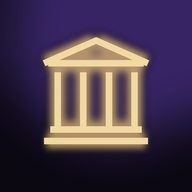
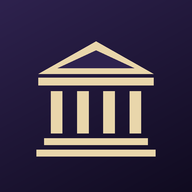
Visual claro premium, ícone nítido e convênios fora do iGUT pelo WhatsApp
Claude-Session: https://claude.ai/code/session_01AuLYGDJTyibB4G3xkukqv5

diff --git a/index.html b/index.html
@@ -5,172 +5,175 @@
 <meta name="viewport" content="width=device-width, initial-scale=1, viewport-fit=cover">
 <title>Pantheon Paciente</title>
 <meta name="claude:viewport-fit-sides" content="cover">
-<meta name="theme-color" content="#0B0812">
-<meta name="apple-mobile-web-app-status-bar-style" content="black-translucent">
+<meta name="theme-color" content="#F4F3F8">
+<meta name="apple-mobile-web-app-status-bar-style" content="default">
 <meta name="apple-mobile-web-app-capable" content="yes">
 <meta name="apple-mobile-web-app-title" content="Pantheon">
 <link rel="manifest" href="manifest.json">
-<link rel="apple-touch-icon" href="icon-192.png">
+<link rel="apple-touch-icon" sizes="180x180" href="icon-180.png?v=3">
 <link rel="preconnect" href="https://fonts.googleapis.com">
 <link rel="preconnect" href="https://fonts.gstatic.com" crossorigin>
 <link rel="stylesheet" href="https://fonts.googleapis.com/css2?family=Sora:wght@500;600&family=Manrope:wght@400;500;600;700&family=JetBrains+Mono:wght@500;600&display=swap">
 <style>
-/* Layout: app escuro de coluna única (máx. 560px), cabeçalho e barra inferior em vidro fosco,
-   cartões com borda luminosa, números em fonte mono. Identidade: ônix arroxeado + ouro Pantheon + lavanda. */
+/* Layout: coluna única (máx. 560px), cabeçalho e barra inferior em vidro claro; cartões brancos com borda fina
+   e sombra em camadas; o cartão do próximo atendimento em tinta escura como peça de destaque.
+   Identidade: porcelana fria + violeta Pantheon + ouro; números em fonte mono. Visual claro único, escolhido de propósito. */
 :root {
-  --fundo: #0B0812;
-  --fundo-2: #120D1C;
-  --superficie: rgba(255,255,255,.035);
-  --superficie-forte: #181224;
-  --vidro: rgba(16,11,26,.72);
-  --linha: rgba(255,255,255,.08);
-  --linha-forte: rgba(255,255,255,.16);
-  --texto: #F3EEF9;
-  --texto-2: #A69CB6;
-  --texto-3: #6F6580;
-  --ouro: #D6B26E;
-  --ouro-2: #F1D9A4;
-  --acento: #A98BF2;
-  --acento-suave: rgba(169,139,242,.12);
-  --brilho: rgba(169,139,242,.35);
-  --ok: #6FE0A6; --ok-suave: rgba(111,224,166,.12);
-  --alerta: #F2C46B; --alerta-suave: rgba(242,196,107,.12);
-  --erro: #FF8A8A; --erro-suave: rgba(255,138,138,.12);
-  --neutro-suave: rgba(255,255,255,.06);
+  --fundo: #F4F3F8;
+  --superficie: #FFFFFF;
+  --superficie-2: #FAF9FD;
+  --vidro: rgba(255,255,255,.78);
+  --linha: #E5E2EE;
+  --linha-forte: #D5D0E2;
+  --texto: #14101C;
+  --texto-2: #5D5570;
+  --texto-3: #958DA6;
+  --tinta: #17112A;
+  --acento: #5A3ED0;
+  --acento-2: #8A6CF2;
+  --acento-suave: #EFEBFD;
+  --ouro: #A6803A;
+  --ouro-claro: #E9D6AB;
+  --ok: #17845A; --ok-suave: #E3F5EC;
+  --alerta: #9A6B0E; --alerta-suave: #FBF1DC;
+  --erro: #C0392F; --erro-suave: #FCE9E7;
+  --neutro-suave: #EFEDF4;
+  --sombra: 0 1px 2px rgba(23,17,42,.04), 0 4px 14px rgba(23,17,42,.05);
+  --sombra-alta: 0 2px 4px rgba(23,17,42,.04), 0 18px 40px -12px rgba(48,30,110,.22);
   --f-display: "Sora", "Segoe UI", system-ui, sans-serif;
   --f-corpo: "Manrope", "Segoe UI", system-ui, -apple-system, sans-serif;
   --f-mono: "JetBrains Mono", ui-monospace, "SF Mono", Menlo, monospace;
   --raio: 18px;
-  color-scheme: dark;
+  color-scheme: light;
 }
 
 * { box-sizing: border-box }
 html, body { height: 100% }
 body {
-  background: var(--fundo); color: var(--texto); font-family: var(--f-corpo); font-size: 15px; line-height: 1.5;
-  -webkit-font-smoothing: antialiased;
+  background: var(--fundo); color: var(--texto); font-family: var(--f-corpo); font-size: 15px; line-height: 1.5; -webkit-font-smoothing: antialiased;
   background-image:
-    radial-gradient(900px 520px at 85% -10%, rgba(169,139,242,.16), transparent 60%),
-    radial-gradient(700px 480px at -10% 30%, rgba(214,178,110,.08), transparent 60%);
+    radial-gradient(800px 420px at 100% -8%, rgba(138,108,242,.13), transparent 62%),
+    radial-gradient(640px 380px at -12% 22%, rgba(214,178,110,.12), transparent 60%);
   background-attachment: fixed;
 }
 body::before { content: ""; position: fixed; inset: 0 0 auto; height: env(safe-area-inset-top, 0px); z-index: 10; background: var(--fundo) }
 button, input, textarea, select { font: inherit; color: inherit }
 button { cursor: pointer; -webkit-tap-highlight-color: transparent }
+a { -webkit-tap-highlight-color: transparent }
 :focus-visible { outline: 2px solid var(--acento); outline-offset: 2px }
-h1, h2, h3 { font-family: var(--f-display); font-weight: 600; margin: 0; text-wrap: balance; letter-spacing: -.02em }
+h1, h2, h3 { font-family: var(--f-display); font-weight: 600; margin: 0; text-wrap: balance; letter-spacing: -.025em }
 p { margin: 0 }
 .miudo { font-size: 13px; color: var(--texto-2) }
-.rotulo { font-family: var(--f-mono); font-size: 11px; letter-spacing: .14em; text-transform: uppercase; color: var(--ouro); font-weight: 500 }
+.rotulo { font-family: var(--f-mono); font-size: 11px; letter-spacing: .14em; text-transform: uppercase; color: var(--ouro); font-weight: 600 }
 
 /* Capa / login */
 .capa { min-height: 100%; display: flex; flex-direction: column; position: relative; overflow: hidden;
-  padding-left: max(16px, env(safe-area-inset-left, 0px)); padding-right: max(16px, env(safe-area-inset-right, 0px)); padding-block: 48px 32px;
+  padding-left: max(16px, env(safe-area-inset-left, 0px)); padding-right: max(16px, env(safe-area-inset-right, 0px)); padding-block: 52px 32px;
   background:
-    linear-gradient(rgba(255,255,255,.035) 1px, transparent 1px) 0 0 / 32px 32px,
-    linear-gradient(90deg, rgba(255,255,255,.035) 1px, transparent 1px) 0 0 / 32px 32px,
-    radial-gradient(600px 400px at 50% 0%, rgba(169,139,242,.28), transparent 70%),
+    radial-gradient(520px 360px at 15% 0%, rgba(138,108,242,.22), transparent 70%),
+    radial-gradient(480px 340px at 95% 18%, rgba(214,178,110,.22), transparent 70%),
     var(--fundo); }
-.capa::after { content: ""; position: absolute; inset: auto 0 0; height: 40%; background: linear-gradient(transparent, var(--fundo)); pointer-events: none }
-.capa > * { position: relative; z-index: 1 }
-.capa-topo { max-width: 440px; width: 100%; margin: 0 auto; display: grid; gap: 14px; justify-items: center; text-align: center; padding-block: 8px 30px }
-.capa-topo h1 { font-size: 32px; background: linear-gradient(180deg, #fff, #CFC3E6); -webkit-background-clip: text; background-clip: text; color: transparent }
+.capa-topo { max-width: 440px; width: 100%; margin: 0 auto; display: grid; gap: 14px; justify-items: center; text-align: center; padding-block: 6px 30px }
+.capa-topo h1 { font-size: 32px; color: var(--tinta) }
 .capa-topo p { color: var(--texto-2); max-width: 30ch }
-.marca { width: 56px; height: 56px; color: var(--ouro); filter: drop-shadow(0 0 14px rgba(214,178,110,.45)) }
-.cartao-login { max-width: 440px; width: 100%; margin: 0 auto; background: var(--vidro); backdrop-filter: blur(18px); -webkit-backdrop-filter: blur(18px);
-  border: 1px solid var(--linha-forte); border-radius: 24px; padding: 22px 20px 24px; display: grid; gap: 16px;
-  box-shadow: 0 30px 80px rgba(0,0,0,.55), inset 0 1px 0 rgba(255,255,255,.06) }
-.segmento { display: grid; grid-template-columns: 1fr 1fr; background: rgba(255,255,255,.04); border: 1px solid var(--linha); border-radius: 14px; padding: 4px; gap: 4px }
+.marca { width: 56px; height: 56px; color: var(--ouro) }
+.capa-topo .marca { width: 68px; height: 68px; padding: 14px; border-radius: 20px; color: var(--ouro-claro);
+  background: linear-gradient(150deg, #2B2048, #120C22); box-shadow: 0 14px 30px -10px rgba(48,30,110,.55), inset 0 1px 0 rgba(255,255,255,.12) }
+.cartao-login { max-width: 440px; width: 100%; margin: 0 auto; background: var(--vidro); backdrop-filter: blur(16px); -webkit-backdrop-filter: blur(16px);
+  border: 1px solid rgba(255,255,255,.9); border-radius: 24px; padding: 22px 20px 24px; display: grid; gap: 16px; box-shadow: var(--sombra-alta) }
+.segmento { display: grid; grid-template-columns: 1fr 1fr; background: var(--neutro-suave); border-radius: 14px; padding: 4px; gap: 4px }
 .segmento button { border: 0; background: transparent; padding: 9px 8px; border-radius: 10px; font-weight: 600; color: var(--texto-2) }
-.segmento button[aria-pressed="true"] { background: rgba(169,139,242,.18); color: var(--texto); box-shadow: inset 0 0 0 1px rgba(169,139,242,.45) }
+.segmento button[aria-pressed="true"] { background: var(--superficie); color: var(--texto); box-shadow: 0 1px 3px rgba(23,17,42,.12) }
 .capa-rodape { text-align: center; color: var(--texto-3); font-size: 12.5px; margin-top: 22px }
 
 /* Formulários */
 form { display: grid; gap: 14px }
 .campo { display: grid; gap: 6px }
 .campo label { font-weight: 600; font-size: 13px; color: var(--texto-2) }
-.campo input, .campo textarea { width: 100%; border: 1px solid var(--linha-forte); background: rgba(255,255,255,.04); border-radius: 12px; padding: 13px 14px; font-size: 16px; transition: border-color .15s, box-shadow .15s }
+.campo input, .campo textarea { width: 100%; border: 1px solid var(--linha-forte); background: var(--superficie); border-radius: 12px; padding: 13px 14px; font-size: 16px; transition: border-color .15s, box-shadow .15s }
 .campo input::placeholder, .campo textarea::placeholder { color: var(--texto-3) }
-.campo input:focus, .campo textarea:focus { border-color: var(--acento); outline: none; box-shadow: 0 0 0 4px rgba(169,139,242,.15) }
+.campo input:focus, .campo textarea:focus { border-color: var(--acento); outline: none; box-shadow: 0 0 0 4px rgba(90,62,208,.12) }
 .check { display: flex; gap: 10px; align-items: flex-start; font-size: 13px; color: var(--texto-2) }
 .check input { margin-top: 3px; width: 18px; height: 18px; accent-color: var(--acento); flex: none }
-.erro-msg { background: var(--erro-suave); color: var(--erro); border: 1px solid rgba(255,138,138,.25); border-radius: 12px; padding: 10px 12px; font-size: 14px }
-.info-msg { background: var(--acento-suave); color: var(--texto); border: 1px solid rgba(169,139,242,.25); border-radius: 12px; padding: 10px 12px; font-size: 14px }
+.erro-msg { background: var(--erro-suave); color: var(--erro); border: 1px solid rgba(192,57,47,.18); border-radius: 12px; padding: 10px 12px; font-size: 14px }
+.info-msg { background: var(--acento-suave); color: var(--tinta); border: 1px solid rgba(90,62,208,.16); border-radius: 12px; padding: 10px 12px; font-size: 14px }
 
 .btn { border: 0; border-radius: 14px; padding: 14px 18px; font-weight: 700; font-size: 15px; display: inline-flex; align-items: center; justify-content: center; gap: 8px; text-decoration: none; transition: transform .12s, filter .15s, box-shadow .15s }
 .btn:active { transform: scale(.98) }
-.btn-primario { background: linear-gradient(135deg, #B79CF7 0%, #8C6BE6 55%, #7553D6 100%); color: #120A20; box-shadow: 0 10px 30px -8px var(--brilho), inset 0 1px 0 rgba(255,255,255,.35) }
-.btn-primario:hover { filter: brightness(1.07) }
-.btn-secundario { background: var(--acento-suave); color: var(--acento); box-shadow: inset 0 0 0 1px rgba(169,139,242,.3) }
-.btn-linha { background: rgba(255,255,255,.03); border: 1px solid var(--linha-forte); color: var(--texto) }
-.btn-perigo { background: linear-gradient(135deg, #FF9A9A, #E06464); color: #2A0A0A }
+.btn-primario { background: linear-gradient(135deg, #2C2050 0%, #4A33B0 60%, #6A4EE0 100%); color: #fff; box-shadow: 0 12px 26px -10px rgba(74,51,176,.6), inset 0 1px 0 rgba(255,255,255,.18) }
+.btn-primario:hover { filter: brightness(1.08) }
+.btn-secundario { background: var(--acento-suave); color: var(--acento) }
+.btn-linha { background: var(--superficie); border: 1px solid var(--linha-forte); color: var(--texto) }
+.btn-perigo { background: var(--erro); color: #fff }
 .btn-texto { background: none; border: 0; color: var(--acento); font-weight: 600; padding: 6px 0; display: inline-flex; align-items: center; gap: 4px }
 .btn[disabled] { opacity: .5; cursor: default; box-shadow: none }
 .btn-bloco { width: 100% }
 
 /* App */
-.topo { position: sticky; top: env(safe-area-inset-top, 0px); z-index: 5; background: var(--vidro); backdrop-filter: blur(18px) saturate(1.4); -webkit-backdrop-filter: blur(18px) saturate(1.4);
+.topo { position: sticky; top: env(safe-area-inset-top, 0px); z-index: 5; background: var(--vidro); backdrop-filter: blur(16px) saturate(1.6); -webkit-backdrop-filter: blur(16px) saturate(1.6);
   border-bottom: 1px solid var(--linha);
   padding-left: max(16px, env(safe-area-inset-left, 0px)); padding-right: max(16px, env(safe-area-inset-right, 0px)); padding-block: 12px }
 .topo-in { max-width: 560px; margin: 0 auto; display: flex; align-items: center; gap: 10px }
-.topo-in .marca { width: 26px; height: 26px }
-.topo-in strong { font-family: var(--f-display); font-weight: 600; font-size: 17px; letter-spacing: .12em; text-transform: uppercase; flex: 1 }
-.topo-in button { background: rgba(255,255,255,.05); border: 1px solid var(--linha); color: var(--texto-2); border-radius: 999px; padding: 6px 14px; font-size: 13px; font-weight: 600 }
+.topo-in .marca { width: 30px; height: 30px; padding: 6px; border-radius: 9px; color: var(--ouro-claro); background: linear-gradient(150deg, #2B2048, #120C22) }
+.topo-in strong { font-family: var(--f-display); font-weight: 600; font-size: 15px; letter-spacing: .2em; text-transform: uppercase; flex: 1; color: var(--tinta) }
+.topo-in button { background: var(--superficie); border: 1px solid var(--linha); color: var(--texto-2); border-radius: 999px; padding: 6px 14px; font-size: 13px; font-weight: 600 }
 .demo-faixa { background: var(--alerta-suave); color: var(--alerta); font-size: 12px; text-align: center; padding: 6px 16px; font-weight: 600; font-family: var(--f-mono); letter-spacing: .04em }
-main { max-width: 560px; margin: 0 auto; padding-left: max(16px, env(safe-area-inset-left, 0px)); padding-right: max(16px, env(safe-area-inset-right, 0px)); padding-block: 22px calc(104px + env(safe-area-inset-bottom, 0px)); display: grid; gap: 18px }
+main { max-width: 560px; margin: 0 auto; padding-left: max(16px, env(safe-area-inset-left, 0px)); padding-right: max(16px, env(safe-area-inset-right, 0px)); padding-block: 22px calc(108px + env(safe-area-inset-bottom, 0px)); display: grid; gap: 18px }
 .saudacao { display: grid; gap: 4px }
-.saudacao h1 { font-size: 28px }
-.cartao { background: var(--superficie); border: 1px solid var(--linha); border-radius: var(--raio); padding: 16px; display: grid; gap: 12px; min-width: 0; box-shadow: inset 0 1px 0 rgba(255,255,255,.04) }
-.destaque { position: relative; overflow: hidden; border: 1px solid transparent;
-  background:
-    radial-gradient(420px 220px at 100% 0%, rgba(169,139,242,.32), transparent 70%),
-    linear-gradient(160deg, #1E1530, #120C1D) padding-box,
-    linear-gradient(135deg, rgba(214,178,110,.7), rgba(169,139,242,.5) 50%, rgba(255,255,255,.06)) border-box;
-  box-shadow: 0 24px 60px -20px rgba(120,80,220,.45) }
-.destaque h2 { font-size: 22px }
-.destaque .btn-linha { background: rgba(255,255,255,.06) }
+.saudacao h1 { font-size: 28px; color: var(--tinta) }
+.cartao { background: var(--superficie); border: 1px solid var(--linha); border-radius: var(--raio); padding: 16px; display: grid; gap: 12px; min-width: 0; box-shadow: var(--sombra) }
+.destaque { position: relative; overflow: hidden; color: #F4F0FB; border: 0;
+  background: radial-gradient(380px 220px at 105% -10%, rgba(138,108,242,.55), transparent 70%), radial-gradient(260px 200px at -10% 120%, rgba(214,178,110,.28), transparent 70%), linear-gradient(155deg, #251B42, #120C22);
+  box-shadow: 0 22px 44px -18px rgba(40,24,100,.6) }
+.destaque .rotulo { color: var(--ouro-claro) }
+.destaque .miudo { color: #BDB3D3 }
+.destaque h2 { font-size: 22px; color: #fff }
+.destaque .btn-linha { background: rgba(255,255,255,.08); border-color: rgba(255,255,255,.18); color: #fff }
 .data-grande { display: flex; gap: 14px; align-items: center }
-.data-bloco { flex: none; width: 62px; border-radius: 14px; background: rgba(0,0,0,.25); text-align: center; padding: 8px 0 7px; border: 1px solid rgba(214,178,110,.45); box-shadow: 0 0 20px -6px rgba(214,178,110,.5) }
-.data-bloco b { display: block; font-family: var(--f-mono); font-weight: 600; font-size: 24px; line-height: 1.1; color: var(--ouro-2) }
-.data-bloco span { font-family: var(--f-mono); font-size: 10.5px; letter-spacing: .14em; text-transform: uppercase; color: var(--texto-2) }
+.data-bloco { flex: none; width: 62px; border-radius: 14px; background: rgba(255,255,255,.07); text-align: center; padding: 8px 0 7px; border: 1px solid rgba(233,214,171,.45) }
+.data-bloco b { display: block; font-family: var(--f-mono); font-weight: 600; font-size: 24px; line-height: 1.1; color: var(--ouro-claro) }
+.data-bloco span { font-family: var(--f-mono); font-size: 10.5px; letter-spacing: .14em; text-transform: uppercase; color: #BDB3D3 }
 .acoes { display: grid; grid-template-columns: 1fr 1fr; gap: 10px }
-.acao { background: var(--superficie); border: 1px solid var(--linha); border-radius: var(--raio); padding: 15px; text-align: left; display: grid; gap: 10px; align-content: start; color: var(--texto); text-decoration: none; min-height: 112px; transition: border-color .15s, background .15s, transform .12s }
-.acao svg { width: 34px; height: 34px; padding: 7px; border-radius: 10px; color: var(--acento); background: var(--acento-suave); box-shadow: inset 0 0 0 1px rgba(169,139,242,.25) }
+.acao { background: var(--superficie); border: 1px solid var(--linha); border-radius: var(--raio); padding: 15px; text-align: left; display: grid; gap: 10px; align-content: start; color: var(--texto); text-decoration: none; min-height: 112px; box-shadow: var(--sombra); transition: border-color .15s, transform .12s, box-shadow .15s }
+.acao svg { width: 36px; height: 36px; padding: 8px; border-radius: 11px; color: var(--acento); background: var(--acento-suave) }
 .acao b { font-size: 14.5px; font-family: var(--f-display); font-weight: 600; letter-spacing: -.01em }
 .acao span { font-size: 12.5px; color: var(--texto-2) }
-.acao:hover { border-color: rgba(169,139,242,.45); background: rgba(169,139,242,.06) }
+.acao:hover { border-color: rgba(90,62,208,.35); box-shadow: var(--sombra-alta) }
 .acao:active { transform: scale(.985) }
 .linha-botoes { display: flex; gap: 8px; flex-wrap: wrap }
 .linha-botoes .btn { flex: 1 1 130px }
 
 /* Etapas de agendamento */
 .etapas { display: flex; gap: 6px }
-.etapas i { flex: 1; height: 3px; border-radius: 3px; background: var(--linha-forte) }
-.etapas i.feita { background: linear-gradient(90deg, var(--ouro), var(--acento)); box-shadow: 0 0 10px rgba(169,139,242,.5) }
+.etapas i { flex: 1; height: 3px; border-radius: 3px; background: var(--linha) }
+.etapas i.feita { background: linear-gradient(90deg, var(--ouro), var(--acento)) }
 .cab-etapa { display: grid; gap: 6px }
-.cab-etapa h2 { font-size: 24px }
+.cab-etapa h2 { font-size: 24px; color: var(--tinta) }
 .lista-op { display: grid; gap: 8px }
-.op { width: 100%; text-align: left; background: var(--superficie); border: 1px solid var(--linha); border-radius: 14px; padding: 13px 14px; display: flex; gap: 12px; align-items: center; transition: border-color .15s, background .15s }
-.op:hover { border-color: rgba(169,139,242,.45) }
-.op[aria-pressed="true"] { border-color: var(--acento); background: var(--acento-suave); box-shadow: 0 0 0 3px rgba(169,139,242,.12) }
+.op { width: 100%; text-align: left; background: var(--superficie); border: 1px solid var(--linha); border-radius: 14px; padding: 13px 14px; display: flex; gap: 12px; align-items: center; color: var(--texto); text-decoration: none; box-shadow: var(--sombra); transition: border-color .15s, box-shadow .15s }
+.op:hover { border-color: rgba(90,62,208,.35) }
+.op[aria-pressed="true"] { border-color: var(--acento); box-shadow: 0 0 0 3px rgba(90,62,208,.12) }
 .op .txt { flex: 1; min-width: 0; display: grid; gap: 1px }
 .op .txt b { font-weight: 600 }
 .op .txt span { font-size: 13px; color: var(--texto-2) }
-.op .seta { color: var(--texto-3) }
-.avatar { flex: none; width: 40px; height: 40px; border-radius: 12px; display: grid; place-items: center; font-weight: 700; font-size: 13.5px; font-family: var(--f-mono);
-  color: var(--ouro-2); background: linear-gradient(145deg, rgba(214,178,110,.18), rgba(169,139,242,.14)); box-shadow: inset 0 0 0 1px rgba(214,178,110,.3) }
-.dias { overflow-x: auto; display: flex; gap: 8px; padding: 2px 2px 8px; scroll-snap-type: x proximity; -webkit-overflow-scrolling: touch; scrollbar-width: none }
+.op .seta { color: var(--texto-3); display: grid }
+.op-whats { background: var(--superficie-2); border-style: dashed }
+.op-whats .txt span { color: var(--ok) }
+.op-whats .seta { color: var(--ok) }
+.avatar { flex: none; width: 40px; height: 40px; border-radius: 12px; display: grid; place-items: center; font-weight: 600; font-size: 13px; font-family: var(--f-mono); color: var(--ouro-claro); background: linear-gradient(150deg, #2B2048, #120C22) }
+.dias { overflow-x: auto; display: flex; gap: 8px; padding: 2px 2px 10px; scroll-snap-type: x proximity; -webkit-overflow-scrolling: touch; scrollbar-width: none }
 .dias::-webkit-scrollbar { display: none }
-.dia { flex: none; width: 64px; border: 1px solid var(--linha); background: var(--superficie); border-radius: 14px; padding: 9px 0; display: grid; justify-items: center; gap: 2px; scroll-snap-align: start; transition: border-color .15s }
+.dia { flex: none; width: 64px; border: 1px solid var(--linha); background: var(--superficie); border-radius: 14px; padding: 9px 0; display: grid; justify-items: center; gap: 2px; scroll-snap-align: start; box-shadow: var(--sombra) }
 .dia span { font-family: var(--f-mono); font-size: 10.5px; text-transform: uppercase; letter-spacing: .1em; color: var(--texto-2) }
-.dia b { font-size: 21px; font-family: var(--f-mono); font-weight: 600 }
-.dia:hover { border-color: rgba(169,139,242,.45) }
-.dia[aria-pressed="true"] { background: linear-gradient(160deg, #B79CF7, #7553D6); border-color: transparent; color: #120A20; box-shadow: 0 10px 24px -8px var(--brilho) }
-.dia[aria-pressed="true"] span { color: rgba(18,10,32,.75) }
+.dia b { font-size: 21px; font-family: var(--f-mono); font-weight: 600; color: var(--tinta) }
+.dia:hover { border-color: rgba(90,62,208,.35) }
+.dia[aria-pressed="true"] { background: linear-gradient(155deg, #2C2050, #5A3ED0); border-color: transparent; box-shadow: 0 10px 22px -8px rgba(74,51,176,.6) }
+.dia[aria-pressed="true"] span { color: rgba(255,255,255,.72) }
+.dia[aria-pressed="true"] b { color: #fff }
 .horarios { display: grid; grid-template-columns: repeat(auto-fill, minmax(80px, 1fr)); gap: 8px }
-.hora { border: 1px solid var(--linha); background: var(--superficie); border-radius: 12px; padding: 11px 0; font-weight: 600; font-family: var(--f-mono); font-variant-numeric: tabular-nums; transition: border-color .15s, background .15s }
-.hora:hover { border-color: var(--acento); background: var(--acento-suave) }
-.hora[aria-pressed="true"] { background: linear-gradient(160deg, #B79CF7, #7553D6); color: #120A20; border-color: transparent }
+.hora { border: 1px solid var(--linha); background: var(--superficie); border-radius: 12px; padding: 11px 0; font-weight: 600; font-family: var(--f-mono); font-variant-numeric: tabular-nums; color: var(--tinta); box-shadow: var(--sombra) }
+.hora:hover { border-color: var(--acento); color: var(--acento) }
+.hora[aria-pressed="true"] { background: linear-gradient(155deg, #2C2050, #5A3ED0); color: #fff; border-color: transparent }
 .resumo { display: grid; gap: 10px; margin: 0 }
 .resumo div { display: flex; justify-content: space-between; gap: 12px; border-bottom: 1px dashed var(--linha-forte); padding-bottom: 10px }
 .resumo div:last-child { border-bottom: 0; padding-bottom: 0 }
@@ -178,58 +181,57 @@ main { max-width: 560px; margin: 0 auto; padding-left: max(16px, env(safe-area-i
 .resumo dd { margin: 0; font-weight: 600; text-align: right }
 
 /* Agendamentos */
-.abas { display: grid; grid-template-columns: 1fr 1fr; background: rgba(255,255,255,.04); border: 1px solid var(--linha); border-radius: 14px; padding: 4px; gap: 4px }
+.abas { display: grid; grid-template-columns: 1fr 1fr; background: var(--neutro-suave); border-radius: 14px; padding: 4px; gap: 4px }
 .abas button { background: none; border: 0; padding: 9px; border-radius: 10px; font-weight: 600; color: var(--texto-2) }
-.abas button[aria-pressed="true"] { color: var(--texto); background: rgba(169,139,242,.18); box-shadow: inset 0 0 0 1px rgba(169,139,242,.45) }
+.abas button[aria-pressed="true"] { color: var(--texto); background: var(--superficie); box-shadow: 0 1px 3px rgba(23,17,42,.12) }
 .ag { display: grid; gap: 10px }
 .ag-cab { display: flex; justify-content: space-between; align-items: flex-start; gap: 10px }
 .ag-cab h3 { font-family: var(--f-display); font-weight: 600; font-size: 15.5px; letter-spacing: -.01em }
-.ag-quando { font-family: var(--f-mono); font-size: 13.5px; font-variant-numeric: tabular-nums; color: var(--ouro-2) }
+.ag-quando { font-family: var(--f-mono); font-size: 13.5px; font-variant-numeric: tabular-nums; color: var(--acento) }
 .pilula { flex: none; font-family: var(--f-mono); font-size: 10.5px; font-weight: 600; padding: 4px 9px; border-radius: 999px; letter-spacing: .06em; text-transform: uppercase; display: inline-flex; align-items: center; gap: 6px }
-.pilula::before { content: ""; width: 6px; height: 6px; border-radius: 50%; background: currentColor; box-shadow: 0 0 8px currentColor }
+.pilula::before { content: ""; width: 6px; height: 6px; border-radius: 50%; background: currentColor }
 .st-agendado { background: var(--acento-suave); color: var(--acento) }
 .st-confirmado { background: var(--ok-suave); color: var(--ok) }
 .st-realizado { background: var(--neutro-suave); color: var(--texto-2) }
 .st-cancelado { background: var(--erro-suave); color: var(--erro) }
 .st-faltou { background: var(--alerta-suave); color: var(--alerta) }
-.confirmar-caixa { background: var(--erro-suave); border: 1px solid rgba(255,138,138,.25); border-radius: 14px; padding: 12px; display: grid; gap: 10px }
+.confirmar-caixa { background: var(--erro-suave); border: 1px solid rgba(192,57,47,.18); border-radius: 14px; padding: 12px; display: grid; gap: 10px }
 .vazio { text-align: center; padding: 30px 16px; display: grid; gap: 12px; justify-items: center; color: var(--texto-2) }
-.vazio svg { width: 44px; height: 44px; color: var(--ouro); filter: drop-shadow(0 0 12px rgba(214,178,110,.35)) }
+.vazio svg { width: 44px; height: 44px; color: var(--ouro) }
 
 /* Preparo */
-details.prep { background: var(--superficie); border: 1px solid var(--linha); border-radius: var(--raio); padding: 0 16px }
-details.prep[open] { border-color: rgba(169,139,242,.35) }
+details.prep { background: var(--superficie); border: 1px solid var(--linha); border-radius: var(--raio); padding: 0 16px; box-shadow: var(--sombra) }
+details.prep[open] { border-color: rgba(90,62,208,.3) }
 details.prep summary { list-style: none; cursor: pointer; padding: 15px 0; display: flex; justify-content: space-between; gap: 10px; font-weight: 600; font-family: var(--f-display) }
 details.prep summary::-webkit-details-marker { display: none }
 details.prep summary::after { content: "+"; color: var(--acento); font-family: var(--f-mono); font-size: 18px; line-height: 1 }
 details.prep[open] summary::after { content: "–" }
-details.prep ul { margin: 0 0 16px; padding-left: 20px; display: grid; gap: 7px; color: var(--texto) }
+details.prep ul { margin: 0 0 16px; padding-left: 20px; display: grid; gap: 7px }
 details.prep li::marker { color: var(--ouro) }
 details.prep p { margin-bottom: 12px; color: var(--texto-2); font-size: 13.5px }
 
 /* NPS */
 .escala { display: grid; grid-template-columns: repeat(11, minmax(0, 1fr)); gap: 4px }
 .escala button { border: 1px solid var(--linha); background: var(--superficie); border-radius: 10px; padding: 10px 0; font-weight: 600; font-size: 14px; font-family: var(--f-mono); font-variant-numeric: tabular-nums }
-.escala button[aria-pressed="true"] { background: linear-gradient(160deg, #B79CF7, #7553D6); color: #120A20; border-color: transparent; box-shadow: 0 8px 20px -6px var(--brilho) }
+.escala button[aria-pressed="true"] { background: linear-gradient(155deg, #2C2050, #5A3ED0); color: #fff; border-color: transparent }
 .escala-leg { display: flex; justify-content: space-between; font-size: 12px; color: var(--texto-2) }
 @media (max-width: 380px) { .escala { grid-template-columns: repeat(6, minmax(0, 1fr)) } }
 
 /* Navegação inferior */
 .nav { position: fixed; left: 0; right: 0; bottom: 0; z-index: 6;
-  padding-left: max(12px, env(safe-area-inset-left, 0px)); padding-right: max(12px, env(safe-area-inset-right, 0px)); padding-bottom: calc(10px + env(safe-area-inset-bottom, 0px)); padding-top: 8px;
-  background: linear-gradient(transparent, rgba(11,8,18,.9) 40%) }
+  padding-left: max(12px, env(safe-area-inset-left, 0px)); padding-right: max(12px, env(safe-area-inset-right, 0px)); padding-bottom: calc(10px + env(safe-area-inset-bottom, 0px)); padding-top: 10px;
+  background: linear-gradient(rgba(244,243,248,0), rgba(244,243,248,.92) 45%) }
 .nav-in { max-width: 520px; margin: 0 auto; display: grid; grid-template-columns: repeat(4, 1fr); padding: 6px; gap: 4px;
-  background: var(--vidro); backdrop-filter: blur(18px) saturate(1.4); -webkit-backdrop-filter: blur(18px) saturate(1.4); border: 1px solid var(--linha-forte); border-radius: 22px; box-shadow: 0 16px 40px rgba(0,0,0,.5) }
-.nav button { background: none; border: 0; padding: 8px 2px; border-radius: 16px; display: grid; justify-items: center; gap: 3px; font-size: 11px; font-weight: 600; color: var(--texto-3); transition: color .15s, background .15s }
+  background: var(--vidro); backdrop-filter: blur(16px) saturate(1.6); -webkit-backdrop-filter: blur(16px) saturate(1.6); border: 1px solid rgba(255,255,255,.95); border-radius: 22px; box-shadow: var(--sombra-alta) }
+.nav button { background: none; border: 0; padding: 8px 2px; border-radius: 16px; display: grid; justify-items: center; gap: 3px; font-size: 11px; font-weight: 600; color: var(--texto-3) }
 .nav svg { width: 22px; height: 22px }
-.nav button[aria-current="page"] { color: var(--texto); background: rgba(169,139,242,.16) }
-.nav button[aria-current="page"] svg { color: var(--acento); filter: drop-shadow(0 0 6px rgba(169,139,242,.7)) }
-.toast { position: fixed; left: 50%; transform: translateX(-50%); bottom: calc(100px + env(safe-area-inset-bottom, 0px)); z-index: 8; background: rgba(28,20,42,.95); color: var(--texto); border: 1px solid rgba(169,139,242,.4); padding: 12px 16px; border-radius: 14px; font-weight: 600; font-size: 14px; max-width: calc(100% - 32px); box-shadow: 0 12px 36px rgba(0,0,0,.5), 0 0 24px -6px var(--brilho) }
+.nav button[aria-current="page"] { color: #fff; background: linear-gradient(155deg, #2C2050, #5A3ED0); box-shadow: 0 8px 18px -8px rgba(74,51,176,.7) }
+.toast { position: fixed; left: 50%; transform: translateX(-50%); bottom: calc(104px + env(safe-area-inset-bottom, 0px)); z-index: 8; background: var(--tinta); color: #fff; padding: 12px 16px; border-radius: 14px; font-weight: 600; font-size: 14px; max-width: calc(100% - 32px); box-shadow: 0 14px 34px rgba(23,17,42,.3) }
 .carregando { display: grid; place-items: center; padding: 32px; color: var(--texto-2); font-family: var(--f-mono); font-size: 13px; gap: 12px }
-.carregando::before { content: ""; width: 26px; height: 26px; border-radius: 50%; border: 2px solid var(--linha-forte); border-top-color: var(--acento); animation: gira .8s linear infinite }
+.carregando::before { content: ""; width: 26px; height: 26px; border-radius: 50%; border: 2px solid var(--linha); border-top-color: var(--acento); animation: gira .8s linear infinite }
 @keyframes gira { to { transform: rotate(360deg) } }
 .whats { display: grid; gap: 6px }
-.whats .num { font-family: var(--f-mono); font-weight: 600; font-size: 18px; font-variant-numeric: tabular-nums; user-select: all; color: var(--ouro-2) }
+.whats .num { font-family: var(--f-mono); font-weight: 600; font-size: 18px; font-variant-numeric: tabular-nums; user-select: all; color: var(--tinta) }
 @media (prefers-reduced-motion: no-preference) { .tela { animation: entra .28s cubic-bezier(.2,.8,.2,1) } @keyframes entra { from { opacity: .3; transform: translateY(8px) } } }
 @media (prefers-reduced-motion: reduce) { .carregando::before { animation: none } }
 </style>
@@ -390,7 +392,7 @@ async function api(metodo, caminho, corpo) {
 
 /* Simulação: mesmas respostas do servidor real, com dados fictícios. */
 const Simulacao = (() => {
-  const convs = [{ id: '142', nome: 'AFFEGO' }, { id: '100', nome: 'Saúde Caixa' }, { id: '109', nome: 'PF Saúde (Polícia Federal)' }];
+  const convs = [{ id: '142', nome: 'AFFEGO' }, { id: 'w:BRB', nome: 'BRB (Saúde BRB)', whatsapp: true }, { id: '109', nome: 'PF Saúde (Polícia Federal)' }, { id: '100', nome: 'Saúde Caixa' }, { id: 'w:SERPRO', nome: 'SERPRO', whatsapp: true }];
   const prof = (id, nome, esp, valor, comConv = true, extra = {}) => ({ id, nome, especialidade: esp, disponivel: true, aviso: '',
     modalidades: [{ id: 'presencial', nome: '', convenios: [{ id: '88', nome: 'Particular', valor }, ...(comConv ? convs : [])] }], ...extra });
   const servicos = [
@@ -646,7 +648,9 @@ function telaAgendar() {
       return `<button class="op" data-a="agMod" data-v="${esc(mm.id)}" aria-pressed="${g.modalidade === mm.id}"><span class="txt"><b>${esc(mm.nome || 'Presencial')}</b><span>${v != null ? moeda(v) : ''}</span></span><span class="seta">${I.seta}</span></button>` }).join('')}</div>`;
   } else if (g.etapa === 'convenio') {
     corpo = `<div class="cab-etapa">${rot}<h2>Particular ou convênio?</h2><p class="miudo">${resumo}</p></div>
-    <div class="lista-op">${m.convenios.map(c => `<button class="op" data-a="agConv" data-v="${esc(c.id)}" aria-pressed="${g.convenio === c.id}"><span class="txt"><b>${esc(c.nome)}</b><span>${c.valor != null ? moeda(c.valor) + ' · pagamento na clínica' : /reembolso/i.test(c.nome) ? 'Pagamento na clínica, com reembolso pelo plano' : 'Leve a carteirinha e um documento com foto'}</span></span><span class="seta">${I.seta}</span></button>`).join('')}</div>
+    <div class="lista-op">${m.convenios.map(c => c.whatsapp
+      ? `<a class="op op-whats" href="https://wa.me/${esc(CONFIG.WHATSAPP)}?text=${encodeURIComponent(`Olá! Quero agendar ${sv.nome} com ${p.nome} pelo convênio ${c.nome}.`)}" target="_blank" rel="noopener"><span class="txt"><b>${esc(c.nome)}</b><span>Agendamento pela recepção · WhatsApp</span></span><span class="seta">${I.whats.replace('<svg', '<svg width="20" height="20"')}</span></a>`
+      : `<button class="op" data-a="agConv" data-v="${esc(c.id)}" aria-pressed="${g.convenio === c.id}"><span class="txt"><b>${esc(c.nome)}</b><span>${c.valor != null ? moeda(c.valor) + ' · pagamento na clínica' : /reembolso/i.test(c.nome) ? 'Pagamento na clínica, com reembolso pelo plano' : 'Agendamento online · leve a carteirinha'}</span></span><span class="seta">${I.seta}</span></button>`).join('')}</div>
     <p class="miudo">Não encontrou seu convênio? Fale com a recepção pelo WhatsApp: <b>${esc(CONFIG.WHATSAPP_EXIBIR)}</b>.</p>`;
   } else if (g.etapa === 'hora') {
     const porDia = {};
@@ -803,7 +807,7 @@ document.addEventListener('click', async e => {
         if (pp.modalidades.length > 1) { g.modalidade = null; irPara('modalidade'); break }
         const cs = modAtual(g).convenios;
         if (cs.length === 1) { g.convenio = cs[0].id; irPara('hora') }
-        else { if (!cs.some(c => c.id === g.convenio)) g.convenio = cs.some(c => c.id === guardar.get('pp_convenio')) ? guardar.get('pp_convenio') : null; irPara('convenio') }
+        else { if (!cs.some(c => c.id === g.convenio && !c.whatsapp)) g.convenio = cs.some(c => c.id === guardar.get('pp_convenio')) ? guardar.get('pp_convenio') : null; irPara('convenio') }
         break;
       }
       case 'agMod': {

diff --git a/sw.js b/sw.js
@@ -1,6 +1,6 @@
 // Guarda a casca do app para abrir rápido; dados sempre vêm do servidor.
-const CACHE = 'pantheon-paciente-v3';
-self.addEventListener('install', e => { e.waitUntil(caches.open(CACHE).then(c => c.addAll(['./', 'index.html', 'manifest.json', 'icon-192.png']))); self.skipWaiting() });
+const CACHE = 'pantheon-paciente-v4';
+self.addEventListener('install', e => { e.waitUntil(caches.open(CACHE).then(c => c.addAll(['./', 'index.html', 'manifest.json', 'icon-192.png', 'icon-180.png']))); self.skipWaiting() });
 self.addEventListener('activate', e => { e.waitUntil(caches.keys().then(ks => Promise.all(ks.filter(k => k !== CACHE).map(k => caches.delete(k))))); self.clients.claim() });
 self.addEventListener('fetch', e => {
   const u = new URL(e.request.url);
